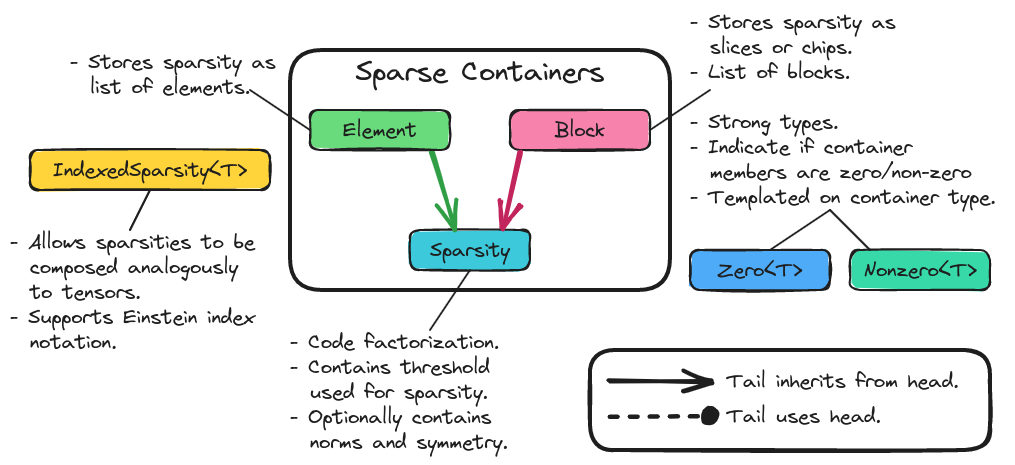
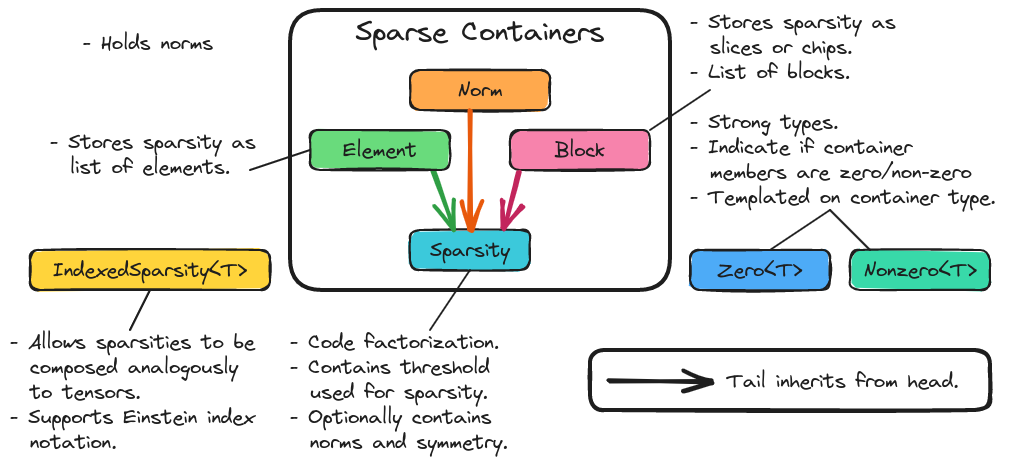
sparsity is done for now

diff --git a/docs/source/developer/design/sparsity.rst b/docs/source/developer/design/sparsity.rst
@@ -28,7 +28,8 @@ What is tensor sparsity?
 In the context of tensors, sparsity refers to tensors possessing elements which
 are effectively zero. Exactly what defines the effective zero is situational
 and problem-specific. The sparsity component is responsible for indicating
-which elements are zero or non-zero.
+which elements are zero or non-zero, not only in a single tensor, but also in
+tensor expressions.
 
 *******************************
 Why do we need tensor sparsity?
@@ -70,9 +71,13 @@ Element Sparsity
 
 Block Sparsity
    Block sparsity is concerned with specifying whether multi-element
-   :ref:`term_slice` and :ref:`term_chip` of a tensor are zero/non-zero. It
-   should be noted that a slice/chip is zero only if every element in the chip
-   is zero too.
+   :ref:`term_slice` and :ref:`term_chip` of a tensor are all zero of if they
+   contain non-zero elements. It should be noted that a slice/chip is zero only
+   if every element in the chip is zero too. Since slices/chips can contain a
+   single element the distinction between element and block sparsity is not
+   always clear. Simply put, element vs block sparsity comes down to
+   whether the user provided the sparsity component with single elements or
+   chips/slices.
 
    - Exploiting block-wise sparsity can only be done with block-wise operations
      (either involving chips or slices).
@@ -119,12 +124,14 @@ Effective Operational Sparsity
    - Sparsity may arise through addition, if |A| and |B| have opposite signs.
      In this case the resulting sparsity is similar to that which results from
      subtraction.
-   - Effective operational sparsity can only be exploited by doing the operation
-     and inspecting the result. For elemental sparsity this requires doing the
-     traditional operation on all of |A| and |B| and inspecting |C|. If |C|
-     has additional sparsity, then noting the sparsity can be useful in using
-     |C| down the road. For block sparsity, pre-computation with norms can be
-     done to avoid forming sparse blocks of |C|.
+   - Exploiting effective operational sparsity requires use of inequalities
+     such as Cacuchy-Schwarz. For elemental sparsity these inequalities must be
+     considered element by element and offer no cost savings over simply
+     carrying out the operation and inspecting the result (n.b., that inspecting
+     the result, |C|,  for additional sparsity can be useful if |C| is used
+     later). For block sparsity, inequalities can be checked by using block
+     norms. If the norms fail the inequality then it is possible to avoid
+     forming the full sparse block.
 
 .. _sparse_dual_problem:
 
@@ -144,8 +151,8 @@ Dual problem
 .. _sparse_symmetry:
 
 Symmetry
-   Sparsity is affected by symmetry. Knowing the symmetry of the tensor allows
-   us to know where zero/non-zero elements are with less information.
+   Knowing the symmetry of the tensor allows us to know where zero/non-zero
+   elements are with less information.
 
 .. _sparse_basic_operations:
 
@@ -154,8 +161,8 @@ Basic Operations
    need to know:
 
    - Whether an element/range of elements is zero or not.
-   - The fraction of zero/non-zero elements.
-   - Unions of two objects.
+   - The fraction of zero elements (*i.e.*, the sparsity).
+   - Unions of sparsity objects.
 
 Not in Scope
 ============
@@ -164,7 +171,8 @@ Storage format
    A number of schemes exist for storing sparse tensors, *e.g.*, compressed
    sparse row and compressed sparse column. While the sparsity component will
    need to adopt one (or possibly multiple) formats, doing so is an
-   implementation detail and not explicitly considered in the design.
+   implementation detail and not explicitly considered in the user-facing
+   design.
 
 Sparse Map
    For a matrix, compressed sparse row format is a map from non-zero row
@@ -325,7 +333,7 @@ sub-shapes which are non-zero:
    Block b0(Shape{}, {})
 
    // Sparsity for a non-zero scalar
-   Block zero0(Shape{}, {{}});
+   Block zero0(Shape{}, {Shape{}});
 
    // Sparsity for 10 element vector with non-zero elements: 1, 3, 4, 5, and 6.
    Shape s1{10};
@@ -356,27 +364,53 @@ Analogous to ``Element``, one can specify the zero blocks by using
 Declaring a Sparsity Object with Norms
 ======================================
 
-As long as a tensor is defined in terms of a ``Nested<Shape>`` or a
-``Nested<JaggedShape>`` we can use the norms of the sub-tensors to check for
-effective sparsity in operations. This is conceptually a variation on ``Block``
-where instead of specifying whether each block is/isn't zero, we instead specify
-how zero a block actually is. In practice this requires providing the norms of
-the blocks and the effective threshold.
+Effective sparsity is conceptually a variation on block sparsity where instead
+of specifying whether each block is/isn't zero, we instead specify "how zero" a
+block actually is. Put another way, ``Block`` objects are ``Norm`` objects
+where zero blocks have a norm of zero and and non-zero blocks have norms of
+infinity. Declaring a ``Norm`` object requires: the shape of the tensor, the
+norms of the blocks, and the effective zero threshold:
 
 .. code-block:: c++
 
+   // Null Norm object (no shape, no sparsity)
+   Norm nnull;
 
-   Nested<Shape> s1_1({1, 1}, Shape{10, 20});
+   // Norm object for a scalar
+   Norm n0(Shape{}, Tensor{norm});
 
-   TensorWrapper t{norm0, norm1, norm2, norm3.., norm9};
-   NormBased e2(t, 10E-10);
+   // Norm object for a 10 element vector
+   Norm n1(Shape{10}, Tensor{norm}));
+
+   // Norm object for a 5 by 20 Matrix viewed as a vector of vectors
+   Nested<Shape> s1_1({1, 1}, Shape{5, 20});;
+   Norm n2(s1_1, Tensor{norm0, norm1, norm2, norm3, norm4}, 10E-10);
+
+   // Vector of matrices example
+   Nested<Shape> s1_2({1, 2}, Shape{5, 20, 30});
+   Norm n1_2(s1_2, Tensor{norm0, norm1, norm2, norm3, norm4});
+
+   // Matrix of vectors example
+   Nested<Shape> s2_1({2, 1}, Shape{3, 3, 10});
+   Tensor t{{norm00, norm01, norm02},
+            {norm10, norm11, norm12},
+            {norm20, norm21, norm22}};
+   Norm n2_1(s2_1, t);
+
+   // Jagged matrix with three rows
+   JaggedShape js2{Shape{10}, Shape{20}, Shape{30}};
+   Norm jn2(js2, Tensor{norm0, norm1, norm2});
 
 
-It should be noted that this sort of sparsity can only be effectively exploited
-in operations with other ``NormBased`` objects (``Block`` and ``Element``
-objects implicitly store a norm tensor with elements that are 0 or 1; in turn,
-the resulting sparsity is completely determined by the hard-zero norms).
-
+As shown for ``n0``, ``Norm`` works with ``Shape`` objects, but only supports a
+single norm (that of the entire tensor) in such cases. Generally speaking,
+``Norm`` is much more useful for tensors declared with ``JaggedShape``,
+``Nested<Shape>``, or ``Nested<JaggedShape>`` shapes. As also shown, the norms
+are provided as ``Tensor`` objects. The rank of the provided tensor is always
+zero if the ``Norm`` object is based off of a ``Shape`` object and it is the
+rank of the outer layer for ``JaggedShape`` and ``Nested`` objects. Finally,
+as shown in constructing ``n2`` the user may provide a custom zero (default is
+machine precision).
 
 Composing Sparsity Objects
 ==========================
@@ -417,6 +451,44 @@ two matrices |A| and |B|, each of which is 10 by 20. In code:
    );
    assert(c == corr);
 
+Composing of sparsity objects follows the same API as composing with other
+TensorWrapper objects, largely for consistency.
+
+Basic Operations
+================
+
+.. note::
+
+   This section will be filled out more as the operations needed are better
+   understood.
+
+All sparse containers inherit from the ``Sparsity`` class, which also defines
+the basic API for many sparsity operations.
+
+.. code-block:: c++
+
+   Sparsity s = get_tensor_sparsity();
+   Sparsity other_sparsity = get_other_sparsity();
+   // Checks if element (0,1) is 0
+   auto is_zero = s.is_zero({0, 1});
+
+   // Checks if a block starting with (0,1) and ending with (10, 10) is all 0
+   is_zero = s.is_zero({0,1}, {10, 10});
+
+   // Checks if element (0,1) is non-zero
+   auto is_nonzero = s.is_nonzero({0, 1});
+
+   // Checks if the block starting with (0,1) and ending with (10, 10) has any
+   // non-zero elements
+   is_nonzero = s.is_nonzero({0, 1}, {10, 10});
+
+   // Compute the sparsity (# of zero elements/total number of elements)
+   auto sparsity = s.sparsity();
+
+   // Create a new sparsity object with the same total shape and the zeros from
+   // s and other_sparsity
+   auto the_union = s.union(other_sparsity);
+
 *******
 Summary
 *******
@@ -430,8 +502,7 @@ Summary
    ``Block``.
 
 :ref:`sparse_effective_sparsity`
-   The base ``Sparsity`` class contains a threshold parameter which is used to
-   determine what the effective zero is/was for the object.
+    Exploiting effective sparsity is done with the ``Norm`` class.
 
 :ref:`sparse_operational_sparsity`
    The ``Sparsity`` objects can be composed using Einstein notation. Sparsity
@@ -454,3 +525,4 @@ Summary
 
 :ref:`sparse_basic_operations`
    Basic operations have been factored out into the ``Sparsity`` base class.
+   The exact API
